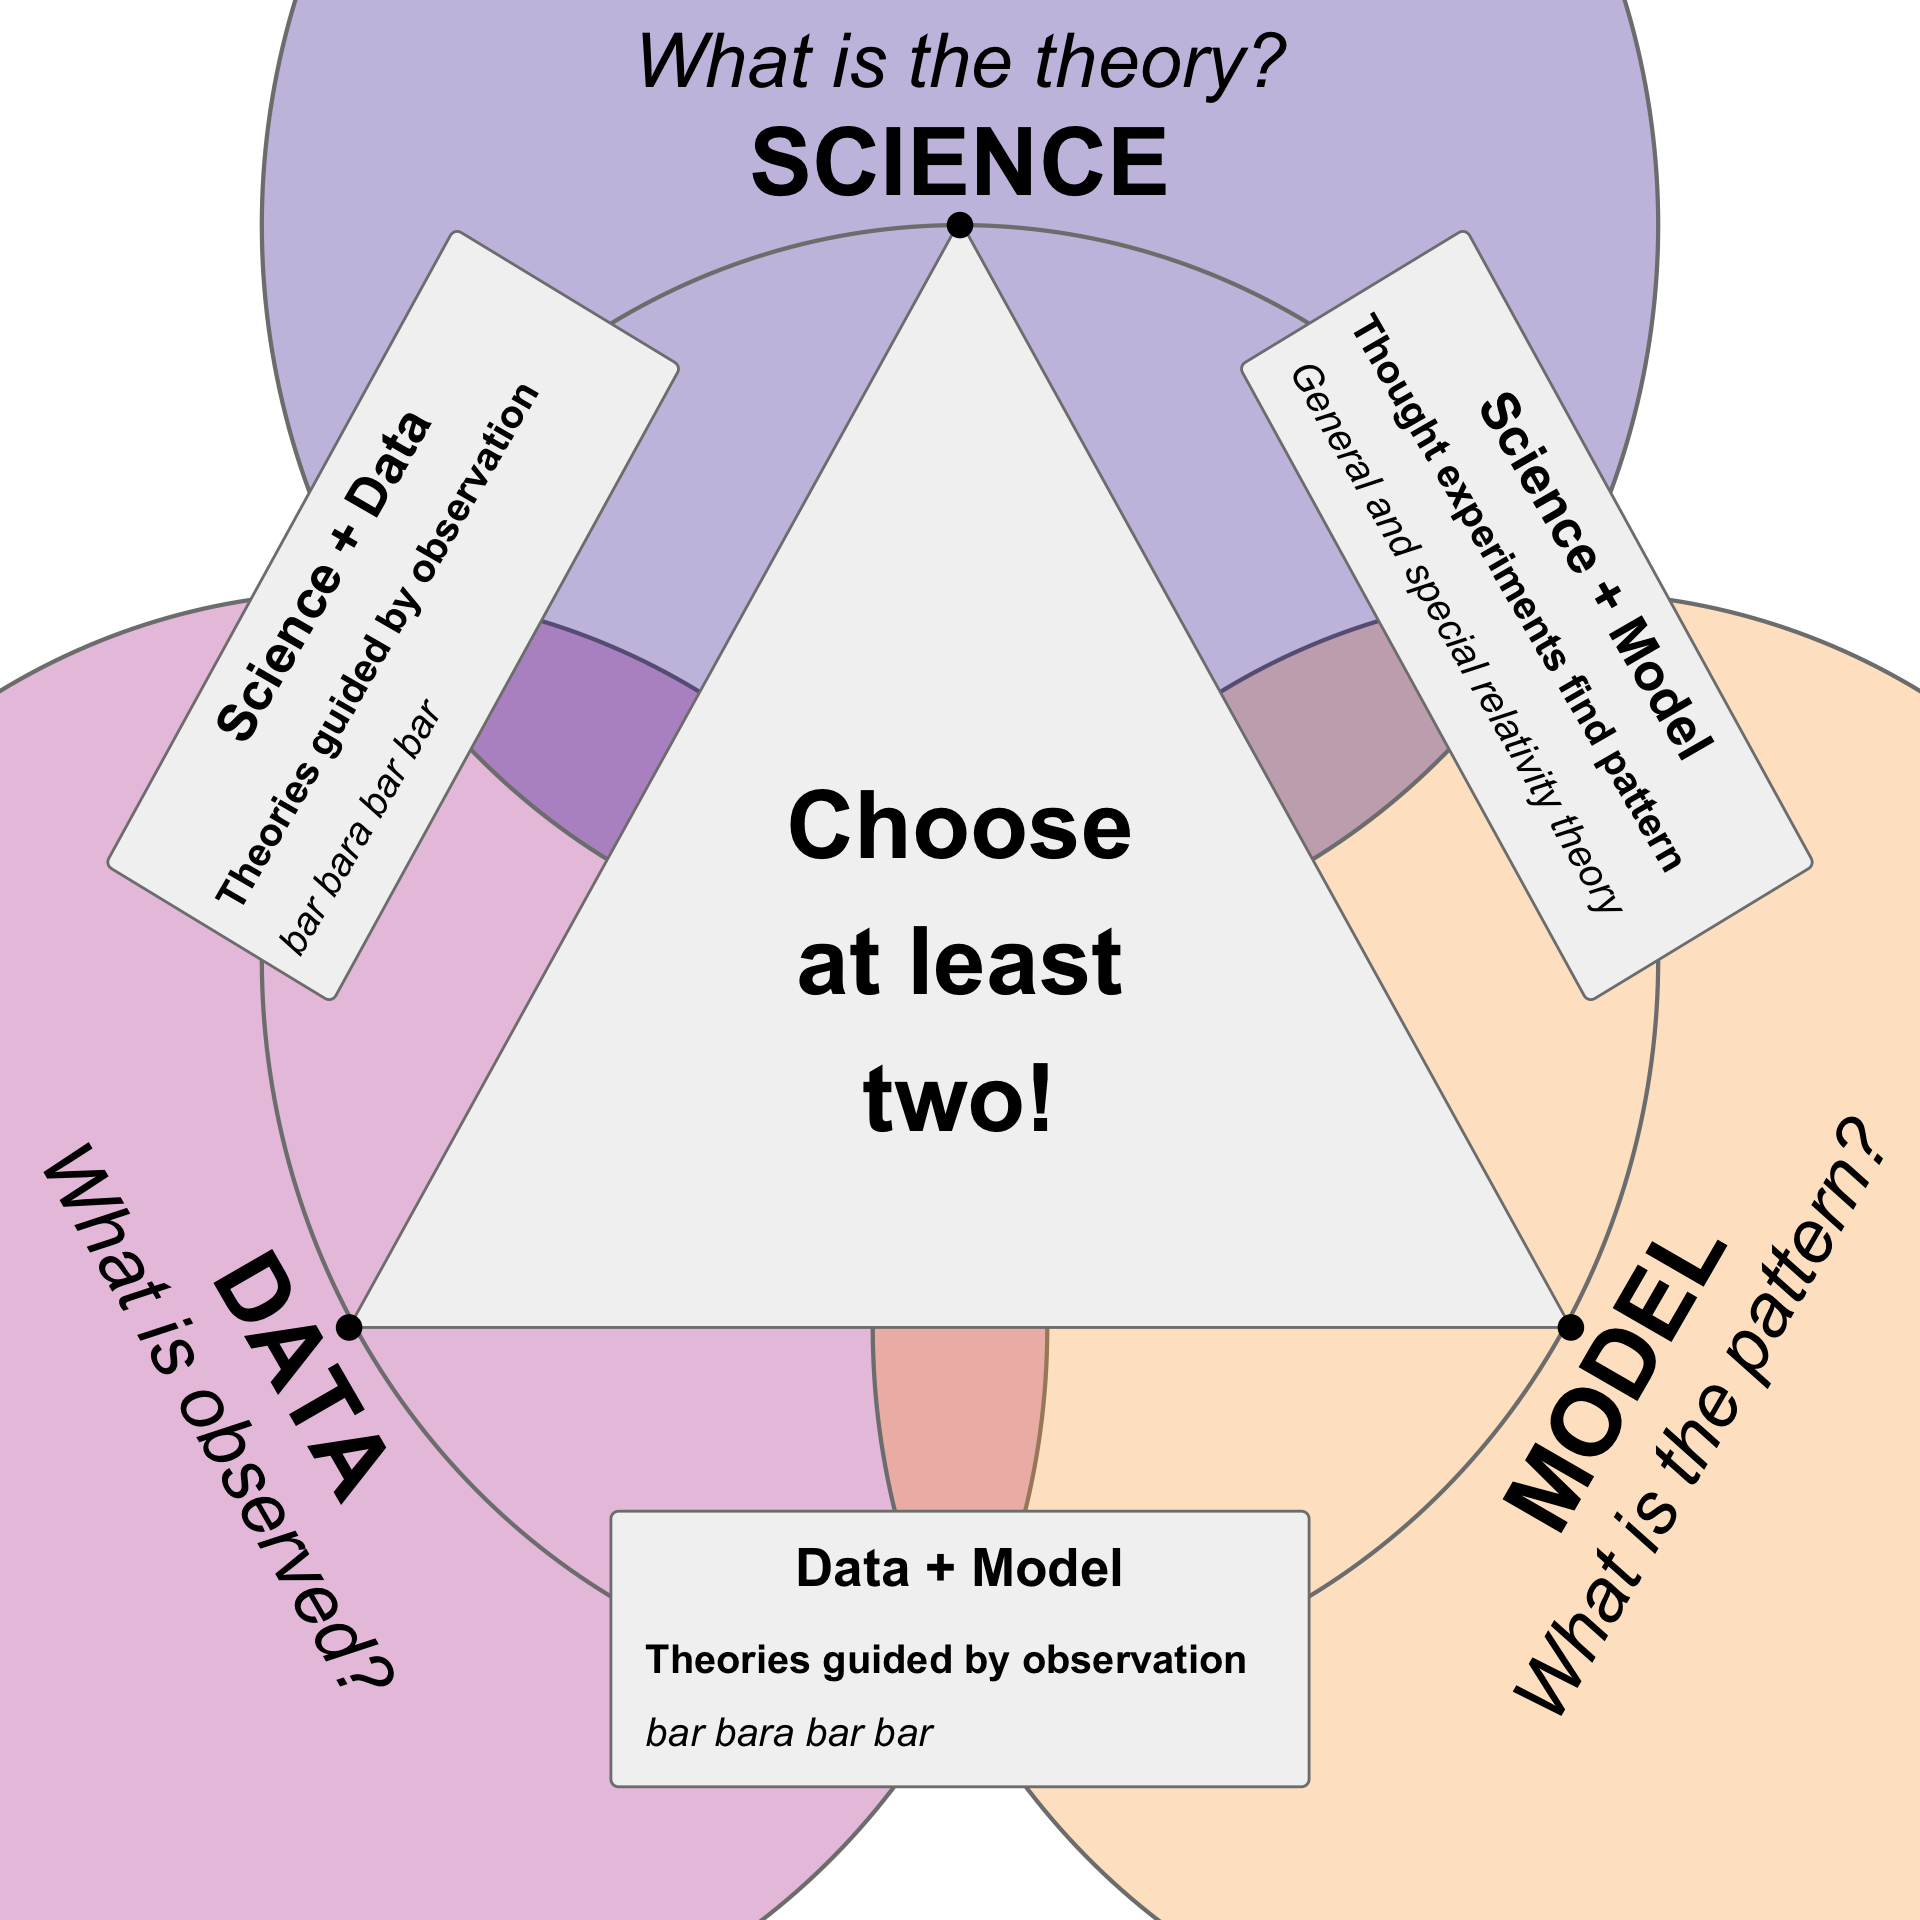
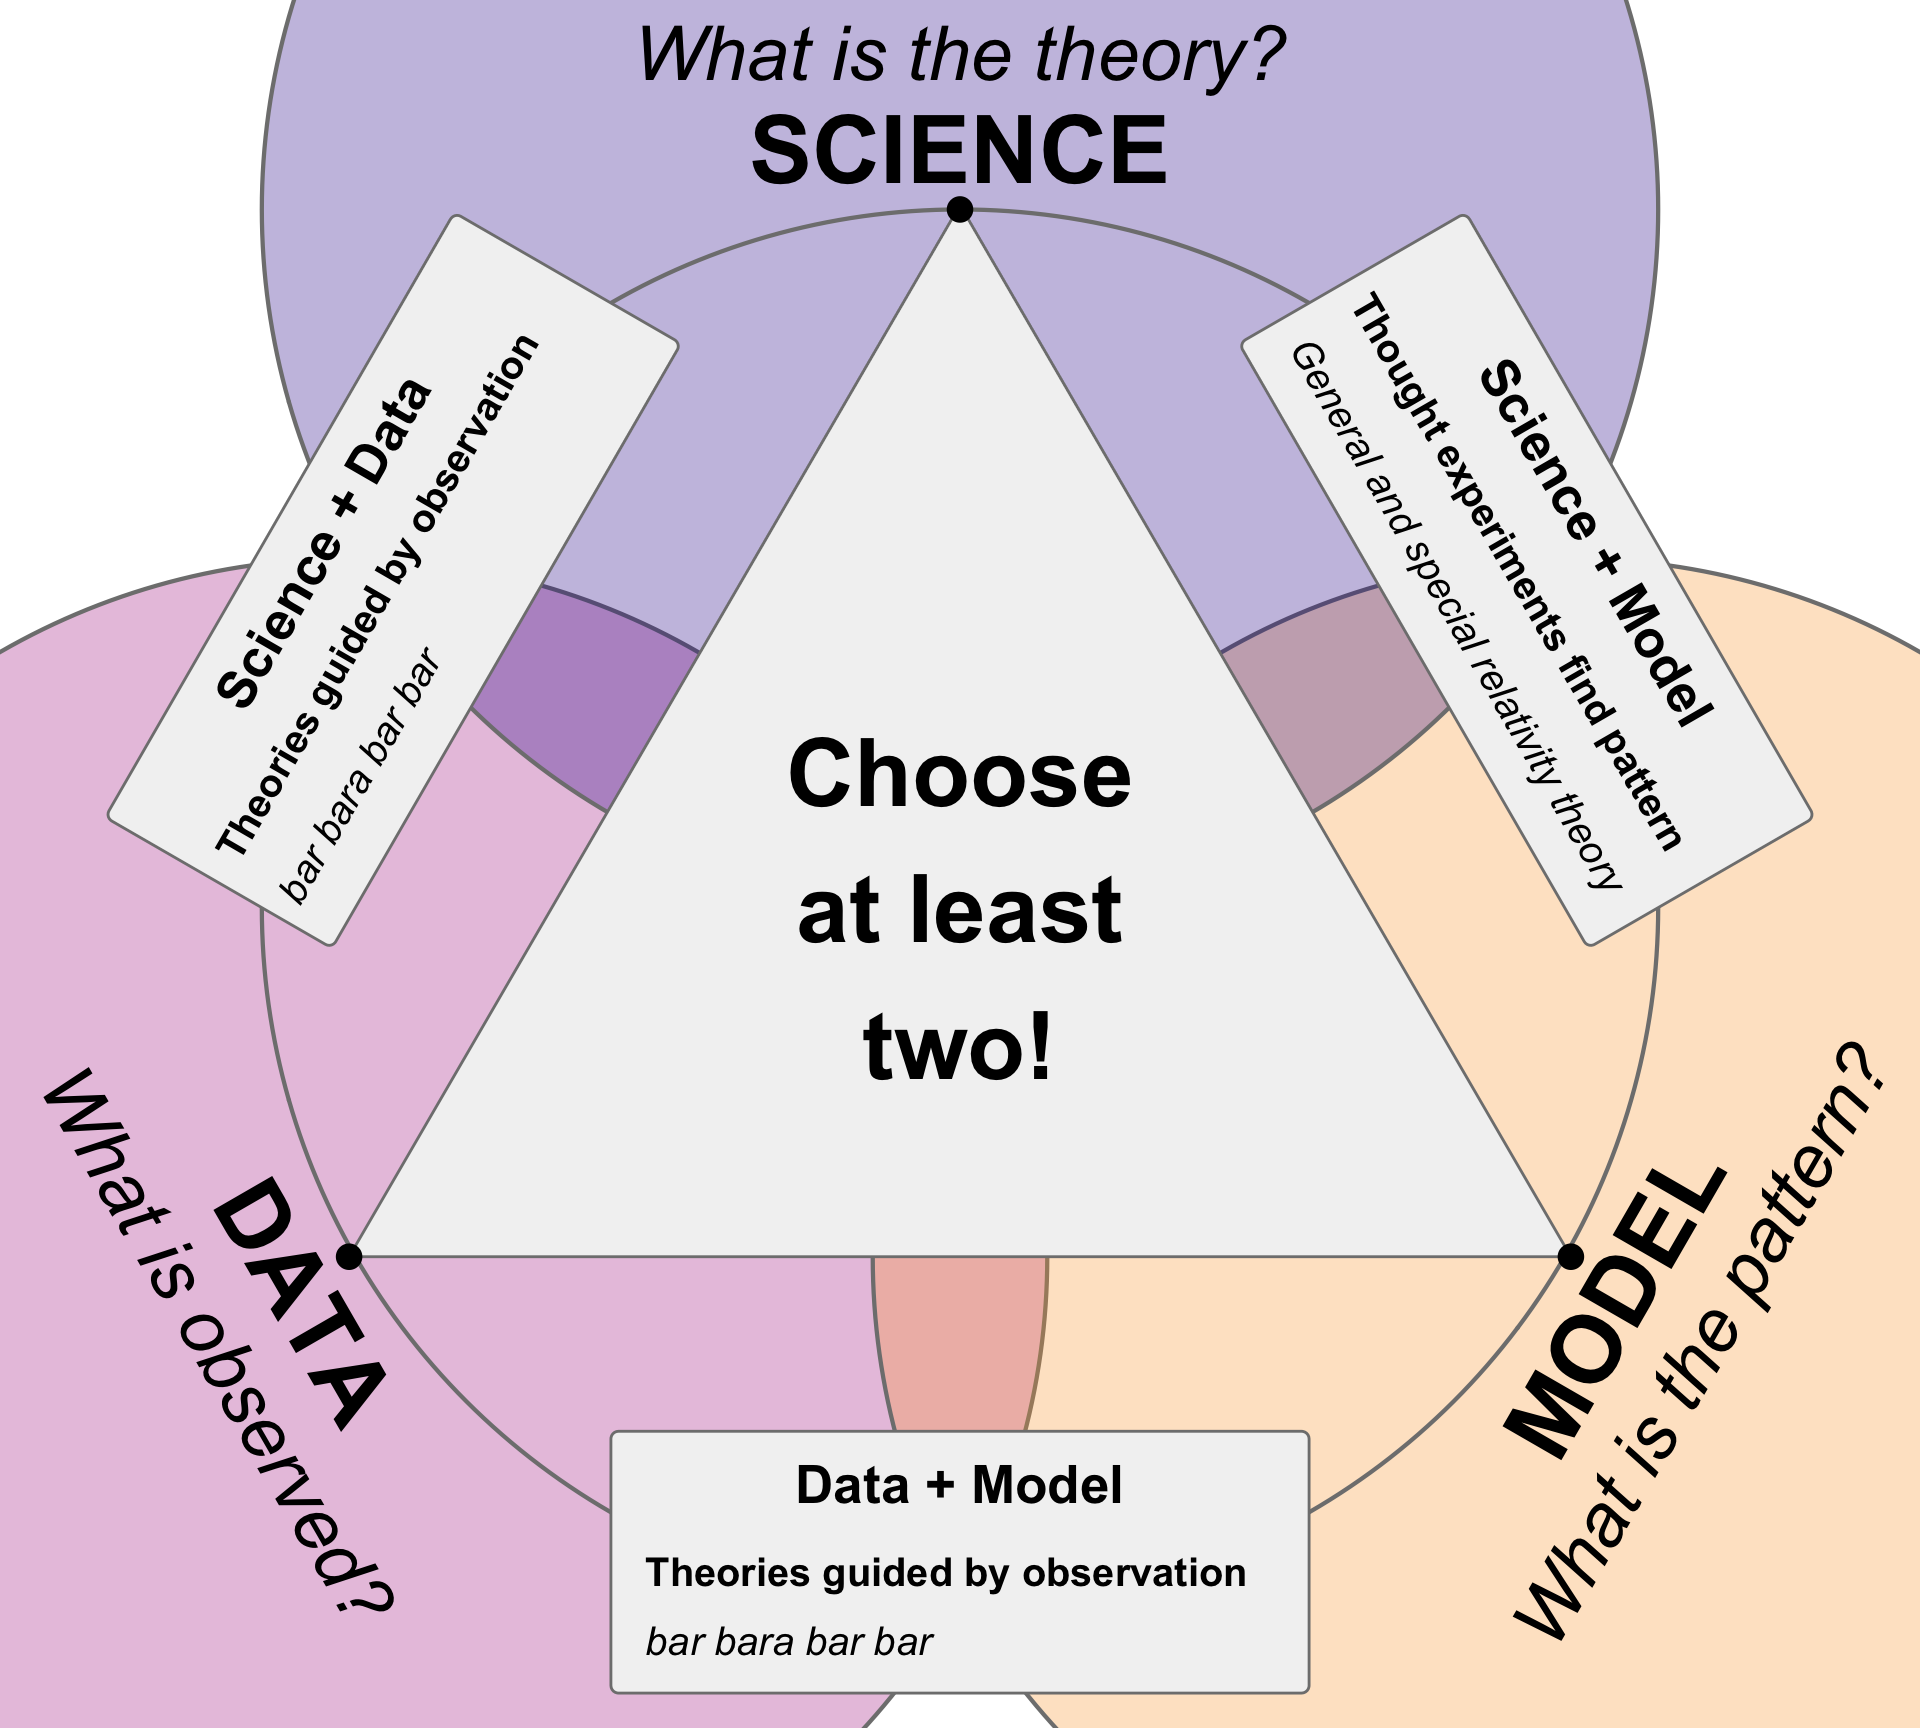
added

diff --git a/docs/chapter-01-what-is-science.html b/docs/chapter-01-what-is-science.html
@@ -450,7 +450,7 @@ window.Quarto = {
 </header>
 
 
-<p><em>Last modified on 24. January 2026 at 20:52:10</em></p>
+<p><em>Last modified on 24. January 2026 at 20:53:25</em></p>
 <blockquote class="blockquote">
 <p><em>“This is your last chance. After this, there is no turning back. You take the blue pill - the story ends, you wake up in your bed and believe whatever you want to believe. You take the red pill - you stay in Wonderland and I show you how deep the rabbit hole goes.” — Morpheus, Matrix</em></p>
 </blockquote>
@@ -1588,7 +1588,7 @@ Figure&nbsp;1.7: Visualization of the relationship between energy and velocity. 
 <span id="cb1-263"><a href="#cb1-263" aria-hidden="true" tabindex="-1"></a><span class="co">#| warning: false</span></span>
 <span id="cb1-264"><a href="#cb1-264" aria-hidden="true" tabindex="-1"></a><span class="co">#| label: fig-chap-01-triangle</span></span>
 <span id="cb1-265"><a href="#cb1-265" aria-hidden="true" tabindex="-1"></a><span class="co">#| fig-align: center</span></span>
-<span id="cb1-266"><a href="#cb1-266" aria-hidden="true" tabindex="-1"></a><span class="co">#| fig-height: 10</span></span>
+<span id="cb1-266"><a href="#cb1-266" aria-hidden="true" tabindex="-1"></a><span class="co">#| fig-height: 9</span></span>
 <span id="cb1-267"><a href="#cb1-267" aria-hidden="true" tabindex="-1"></a><span class="co">#| fig-width: 10</span></span>
 <span id="cb1-268"><a href="#cb1-268" aria-hidden="true" tabindex="-1"></a><span class="co">#| fig-cap: "vaaa."</span></span>
 <span id="cb1-269"><a href="#cb1-269" aria-hidden="true" tabindex="-1"></a></span>
@@ -1600,7 +1600,7 @@ Figure&nbsp;1.7: Visualization of the relationship between energy and velocity. 
 <span id="cb1-275"><a href="#cb1-275" aria-hidden="true" tabindex="-1"></a><span class="fu">ggplot</span>() <span class="sc">+</span></span>
 <span id="cb1-276"><a href="#cb1-276" aria-hidden="true" tabindex="-1"></a>  <span class="fu">theme_void</span>() <span class="sc">+</span></span>
 <span id="cb1-277"><a href="#cb1-277" aria-hidden="true" tabindex="-1"></a>  <span class="do">## theme_minimal() +</span></span>
-<span id="cb1-278"><a href="#cb1-278" aria-hidden="true" tabindex="-1"></a>  <span class="fu">coord_cartesian</span>(<span class="at">xlim =</span> <span class="fu">c</span>(<span class="sc">-</span><span class="dv">5</span>, <span class="dv">5</span>), <span class="at">ylim =</span> <span class="fu">c</span>(<span class="sc">-</span><span class="fl">4.75</span>, <span class="fl">4.75</span>)) <span class="sc">+</span></span>
+<span id="cb1-278"><a href="#cb1-278" aria-hidden="true" tabindex="-1"></a>  <span class="fu">coord_cartesian</span>(<span class="at">xlim =</span> <span class="fu">c</span>(<span class="sc">-</span><span class="dv">5</span>, <span class="dv">5</span>), <span class="at">ylim =</span> <span class="fu">c</span>(<span class="sc">-</span><span class="fl">4.25</span>, <span class="fl">4.75</span>)) <span class="sc">+</span></span>
 <span id="cb1-279"><a href="#cb1-279" aria-hidden="true" tabindex="-1"></a>  <span class="fu">scale_x_continuous</span>(<span class="at">breaks =</span> <span class="fu">seq</span>(<span class="sc">-</span><span class="dv">10</span>, <span class="dv">10</span>, <span class="dv">1</span>)) <span class="sc">+</span></span>
 <span id="cb1-280"><a href="#cb1-280" aria-hidden="true" tabindex="-1"></a>  <span class="fu">scale_y_continuous</span>(<span class="at">breaks =</span> <span class="fu">seq</span>(<span class="sc">-</span><span class="dv">10</span>, <span class="dv">10</span>, <span class="dv">1</span>)) <span class="sc">+</span></span>
 <span id="cb1-281"><a href="#cb1-281" aria-hidden="true" tabindex="-1"></a>  <span class="fu">geom_circle</span>(<span class="fu">aes</span>(<span class="at">x0 =</span> <span class="sc">-</span><span class="fl">3.5</span>, <span class="at">y0 =</span> <span class="sc">-</span><span class="dv">2</span>, <span class="at">r =</span> <span class="dv">4</span>), <span class="at">size =</span> <span class="fl">0.75</span>, <span class="at">color =</span> <span class="st">"gray50"</span>,</span>
